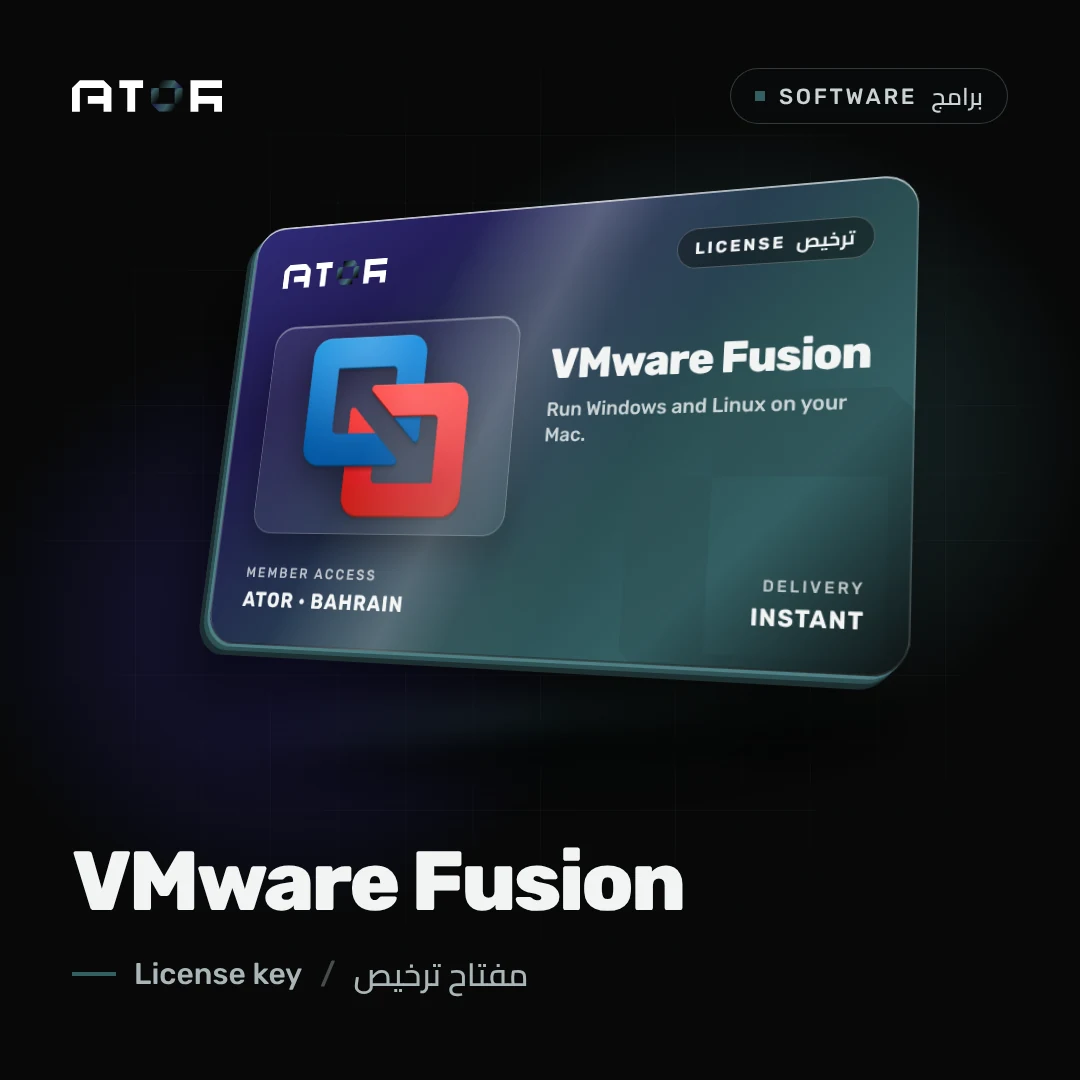
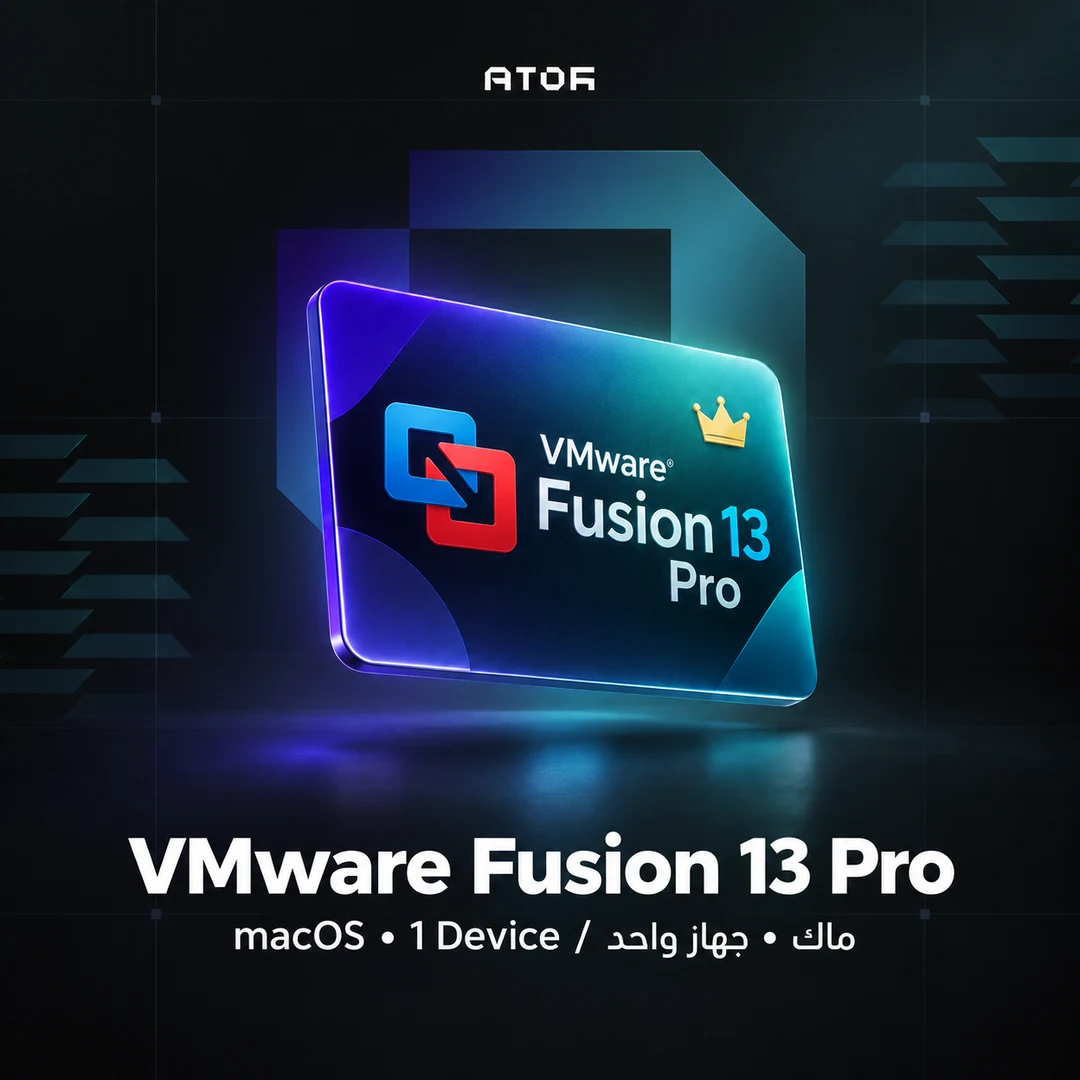
Use new ATOR card artwork for 19 product images
Claude-Session: https://claude.ai/code/session_01G1R8WbLdbTRD4Nu8Li4VXN

diff --git a/lib/db.ts b/lib/db.ts
@@ -20,7 +20,7 @@ const URL_ = process.env.DATABASE_URL || process.env.POSTGRES_URL || '';
 export const DEMO = !URL_;
 
 const seedProducts = (): Product[] =>
-  (catalog as Omit<Product, 'sort'>[]).map((p, i) => ({ ...p, image: `/products/${p.slug}.webp?v=2`, sort: i }));
+  (catalog as Omit<Product, 'sort'>[]).map((p, i) => ({ ...p, image: `/products/${p.slug}.webp?v=3`, sort: i }));
 
 /* ---------- memory store (no DATABASE_URL: demo preview, resets on redeploy) ---------- */
 type Mem = { products: Product[]; users: User[]; orders: Order[] };
